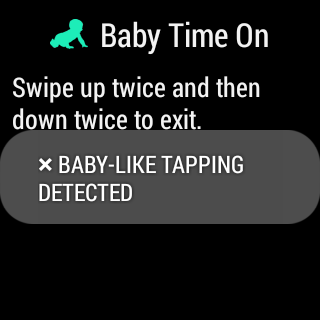
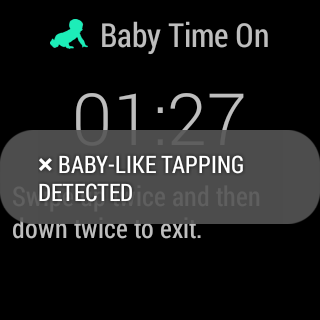
Include current time on lockscreen

diff --git a/wear/src/main/java/com/yonisamlan/wearbabytime/MainActivity.java b/wear/src/main/java/com/yonisamlan/wearbabytime/MainActivity.java
@@ -2,26 +2,36 @@ package com.yonisamlan.wearbabytime;
 
 import android.app.Activity;
 import android.os.Bundle;
+import android.os.Handler;
+import android.os.Message;
 import android.os.SystemClock;
 import android.support.annotation.StringRes;
+import android.text.format.Time;
 import android.view.GestureDetector;
 import android.view.MotionEvent;
 import android.view.View;
 import android.view.ViewGroup;
 import android.view.WindowManager;
+import android.widget.TextView;
 import android.widget.Toast;
 
+import java.text.SimpleDateFormat;
+import java.util.Date;
 import java.util.concurrent.TimeUnit;
 
 public class MainActivity extends Activity implements GestureDetector.OnGestureListener {
     private static final String TAG = "babytime";
     private static final long TOAST_RATE_LIMIT_MILLIS = 3500; // AOSP's Toast.LENGTH_LONG
     private static final long MAX_UNLOCK_GESTURE_TIME_MILLIS = TimeUnit.SECONDS.toMillis(5);
+    private static final String TIME_FORMAT = "%H:%M";
+    private static final Time TIME = new Time();
 
+    private Handler mClockHandler;
     private GestureDetector mGestureDetector;
     private long mLastNotificationTimeMillis;
     private long mUnlockGestureStartedMillis;
     private int mUnlockStepCount;
+
 
     @Override
     protected void onCreate(Bundle savedInstanceState) {
@@ -44,6 +54,23 @@ public class MainActivity extends Activity implements GestureDetector.OnGestureL
                 return true;
             }
         });
+
+        // Update the clock every minute
+        final TextView timeView = (TextView) findViewById(R.id.time);
+
+        mClockHandler = new Handler() {
+            @Override
+            public void handleMessage(Message msg) {
+                if (!isFinishing() && timeView != null) {
+                    TIME.setToNow();
+                    long millisUntilNextMinute = (60 - TIME.second) * 1000;
+                    mClockHandler.sendEmptyMessageDelayed(0, millisUntilNextMinute);
+                    ((TextView) timeView).setText(TIME.format(TIME_FORMAT));
+                }
+            }
+        };
+
+        mClockHandler.sendEmptyMessage(0);
     }
 
     @Override
